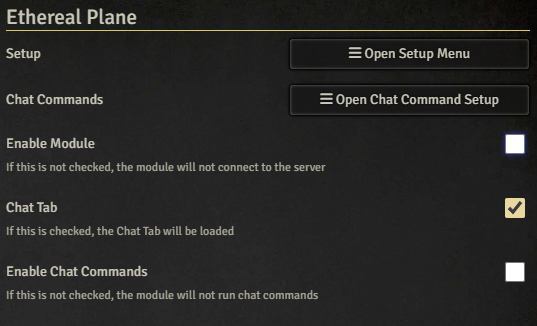
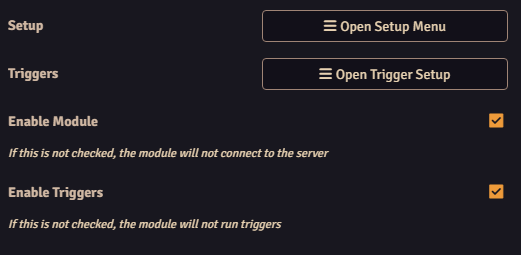
Update EP Docs

diff --git a/sidebars_ep.js b/sidebars_ep.js
@@ -28,7 +28,6 @@ const sidebars = {
       label: 'Features',
       items: [
         'triggers',
-        'chat-commands',
         'polls',
         'midi-qol',
         'api'

diff --git a/docs/ethereal-plane/quick-start.md b/docs/ethereal-plane/quick-start.md
@@ -20,60 +20,63 @@ Once there, you will be greeted with this screen:
 
 ![Settings Screen](./assets/ep-settings.png)
 
-Before any of the Features can work, you need to go through Setup.
+Here, you can open the Setup Menu and the Trigger Setup. You can also enable the Module and separately, select if triggers should be processed.
 
-In the Setup Menu, you will be asked to select the Mode that Ethereal Plane should run in. 
+Before the Module can work properly, you need to open Setup.
 
-If you are a Twitch user, I recommend switching the module to Patreon mode. This will immediately give you access to all Module features through the "EtherealPlane" Twitch bot user. You don't need to be subscribed to my Patreon for this to work, all Twitch features are completely free!
+### Setup
 
-If you are a YouTube User, I do recommend considering subscribing to my Patreon at the 5€ Tier. Otherwise, you want to set the mode to "Local Bridge only" and install the [Server](https://github.com/FaeyUmbrea/ethereal-plane-server).
+#### Connection
 
-"Local Bridge + Patreon" is a hybrid mode not recommended for new users.
+![Connection](./assets/ep-connection.png)
 
-### Patreon Setup
+To begin using Ethereal Plane, you have to connect your foundry installation to the Ethereal Plane server.
 
-If you select "Patreon Mode," your next step is to log into your Patreon account.
+To do so, you first need to create an account on the Etheral Plane website. You can quickly open it by clicking "Account Setup".
 
-![Patreon Setup](./assets/ep-patreon-setup.png)
+Then, once your account is created, you can connect to the server by clicking "Connect".
 
-Once you are logged in, your UI will change based on your patreon tier.
-From here, log into the streaming service of your choosing!
+This will ask you to confirm that you want to add your foundry installation as a Client to your account. You only need to do this step once for each Foundry Installation, even if other people want to log into Ethereal Plane on your Foundry Instance.
 
-#### Twitch Setup
+::::info
+Connecting write a small text file to the module's data folder. It contains a long string of characters that is used to identify your foundry to the ethereal plane server. Please do not remove this file or you will have to connect again.
+::::
 
-If you are a Twitch user, after logging in you are all set!
+#### Logging in
 
-Depending on your Tier, a button saying "Log in" with a Bot-Icon will be available:
+![Logging in](./assets/ep-login.png)
 
-![Twitch Setup](./assets/ep-twitch-setup.png)
+Once your installation is connected, you can log in to Ethereal Plane by clicking "Login".
 
-You can use this to log into either your main twitch account, or any other twitch account of your choosing. The bot will then use that account instead of the "EtherealPlane" user to interact with your chat.
+That will open this window.
 
-#### YouTube Setup
+![Login Screen](./assets/ep-login-window.png)
 
-The YouTube Setup is straightforward.
-After logging in, everything should be working automatically.
-However, if the backend fails to correctly connect to your live-stream.
-Copy the URL to your livestream into the Text-Box and press the Save Icon.
+You need to enter this code on the Ethereal Plane website to log into your Ethereal Plane account.
 
-![YouTube Setup](./assets/ep-youtube-setup.png)
+You can do so by either scanning the QR code, Copying the URL and pasting it manually, or clicking "Open" to directly open the URL in a new window.
 
+Please make sure that the code entered on the website matches the code displayed in the window. If it doesn't, you can manually enter the code from the window into the website.
 
-It does not matter if it is a YouTube Studio, "youtu.be" or youtube.com/watch URL. All three will work!
+From there, confirm the code and log into your account if required. Once you are done, the login window in foundry will automatically close and you are ready to use Ethereal Plane.
 
-### Local Server 
+::::info
 
-::::warning
-
-This is a deprecated feature that has been discontinued in Ethereal Plane 3.0
+The login code is only valid for a limited time. If you take too long you might have to close the window and try logging in again.
 
 ::::
 
-If you are running the Module in local mode, all the configuration is done in the companion Server.
-All you need to do here is provide the URL your Server is running under. This is typically already set correctly.
+#### Status Monitors
 
-![Local Setup](./assets/ep-local.png)
+![Status Monitors](./assets/ep-status.png)
 
+The top of the Setup Menu has a set of 3 status monitors that show if your module is connected to either of the three real time data endpoints that Ethereal Plane provides.
+
+Polls will only be active and connected if a Poll is running.
+
+Chat will only be active and connected if a direct chat read connection is used. Please note that even if you use Chat Command triggers or are sending messages to chat, this will remain disconnected.
+
+Triggers will only be active and connected if you are using the Triggers feature.
 
 ## Send Rolls to Chat
 
@@ -105,37 +108,6 @@ Clicking on it will bring up the Poll Menu.
 In here, you can set up a Poll with options and a title, define the duration and drag and drop macros into the little boxes next to the option name.
 
 More on Polls can be found in the in-depth tutorial.
-
-## Chat Tab
-
-::::warning
-
-This is a deprecated feature that has been discontinued in Ethereal Plane 3.0
-
-::::
-
-The Chat Tab can be enabled or disabled in the module settings.
-
-![Chat Tab Setting](./assets/ep-chat-tab-setting.png)
-
-If enabled, a new Tab 
-![Chat Tab Icon](./assets/ep-chat-tab-icon.png)
- showing all messages from your chat will appear in the sidebar on the right. 
-
-## Chat Commands
-
-::::warning
-
-This is a deprecated feature that has been discontinued in Ethereal Plane 3.0. Please use [Triggers](triggers) instead.
-
-::::
-
-The final feature you want to consider is the Chat Commands.
-
-A more indepth guide on chat commands can be found on their own wiki page.
-For now, consider if you want to enable them or not. 
-
-![Chat Command Settings](./assets/ep-chat-command-settings.png)
 
 ## Triggers
 
